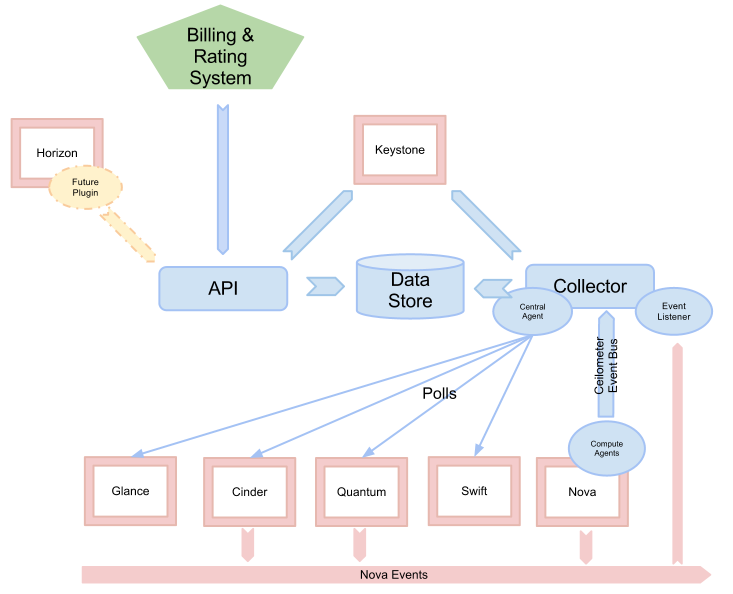
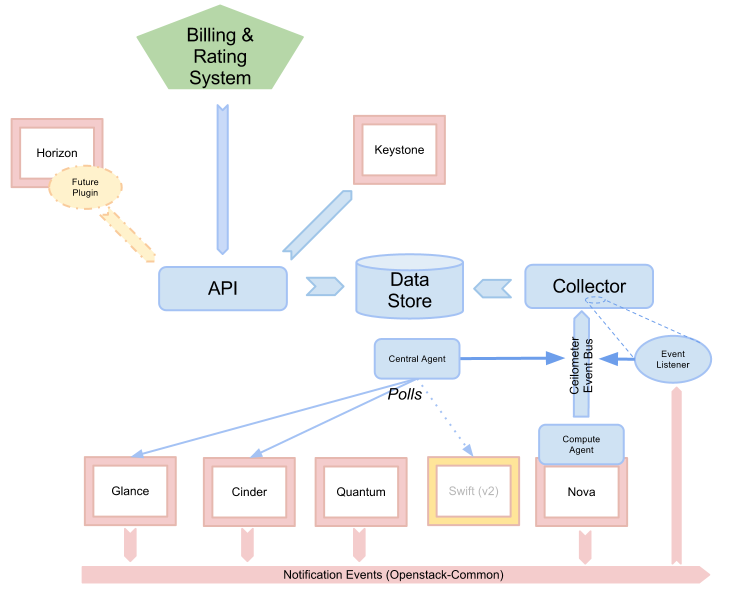
Update the architecture diagram
* adds consistency on daemon reprensentation (rectangle)
* remove misleading link between colector and keystone
* refine how central agent and event listener post back event to
  the ceilometer bus
* glance is sending strandard events we collect
* we do not poll quantum
* clarify that swift is not implemented yet

diff --git a/doc/source/architecture.rst b/doc/source/architecture.rst
@@ -17,7 +17,7 @@ High Level Description
 
 The following diagram summarizes ceilometer logical architecture:
 
-.. The image source can be found at https://docs.google.com/drawings/d/1_cIFir6HS6jSkPw7chrmyu8DGE2ZgXk79Kbj8nw-Hqo/edit
+.. The image source can be found at https://docs.google.com/drawings/d/1-6-DxU5ITyRcVJtJtPsc_zeiqzafZlir0AF7AkG4ZeQ/edit
 
 .. image:: ./Ceilometer_Architecture.png
 
